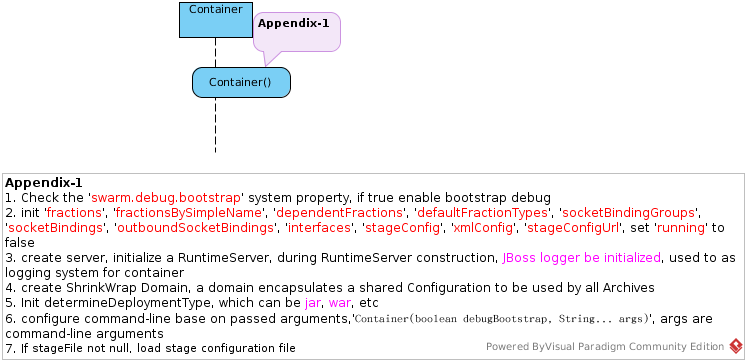
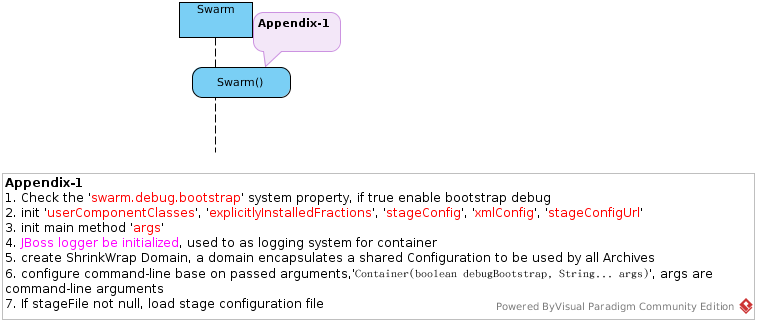
update swarm post

diff --git a/_posts/2016-07-14-wildfly-swarm.md b/_posts/2016-07-14-wildfly-swarm.md
@@ -443,15 +443,15 @@ In this section, a project with a simple Main class and no dependency, then we f
 A WildFly-Swarm container is the topest interface for Micro-Service WildFly Swarm, it use to start a simple JBoss MSC container, a tradition usag is
 
 ~~~
-Container container = new Container();    
-container.start();
+Swarm swarm = new Swarm();
+swarm.start(); 
 ~~~ 
 
 Fractions can be add to Container before container start, or Archives be deloyed after container start.
 
 A WildFly-Swarm container represented by `org.wildfly.swarm.container.Container`, it contains the following private fileds represents the `fractions`, `socketBindingGroups`, `socketBindings`, `server`, `deployer`, etc. 
 
-### Pre Container construction
+### Pre Container construction - bootstrap
 
 `java -jar X-swarm.jar` can start the lightweight container and fragment, how does this implemented? If look at the `META-INF/MANIFEST.MF` uder the unberjar,
 
@@ -491,6 +491,7 @@ public class BootModuleLoader extends ModuleLoader {
                 new BootstrapClasspathModuleFinder(),
                 new BootstrapModuleFinder(),
                 new ClasspathModuleFinder(),
+                new ContainerModuleFinder(),
                 new ApplicationModuleFinder(),
                 new FlattishApplicationModuleFinder(),
         });
@@ -502,11 +503,12 @@ As UML diagram:
 
 ![UML of ModuleFinder]({{ site.baseurl }}/assets/blog/wildfly/modules-ModuleFinder-uml.png)
 
-* BootstrapClasspathModuleFinder - Used only for loading dependencies of org.wildfly.bootstrap:main from its own jar.
-* BootstrapModuleFinder -
-* ClasspathModuleFinder -
-* ApplicationModuleFinder -
-* FlattishApplicationModuleFinder - 
+* BootstrapClasspathModuleFinder - Used only for loading dependencies of org.wildfly.bootstrap:main from its own jar. The classpath modules in bootstrap including: `javax.api`, `javax.sql.api`, `org.jboss.msc`, etc
+* BootstrapModuleFinder - Module-finder used only for loading the first set of jars when run in an fat-jar scenario.
+* ClasspathModuleFinder
+* BootstrapModuleFinder
+* ApplicationModuleFinder
+* FlattishApplicationModuleFinder
 
 ### Container construction
 
@@ -515,17 +517,40 @@ As UML diagram:
 As figure, Container construction mainly do the following:
 
 1. Check the 'swarm.debug.bootstrap' system property, if true enable bootstrap debug 
-2. init 'fractions', 'fractionsBySimpleName', 'dependentFractions', 'defaultFractionTypes', 'socketBindingGroups', 'socketBindings', 'outboundSocketBindings', 'interfaces', 'stageConfig', 'xmlConfig', 'stageConfigUrl', set 'running' to false 
-3. create server, initialize a RuntimeServer, during RuntimeServer construction, JBoss logger be initialized, used to as logging system for container 
-4. create ShrinkWrap Domain, a domain encapsulates a shared Configuration to be used by all Archives 
-5. Init determineDeploymentType, which can be jar, war, etc 
+2. init 'userComponentClasses', 'explicitlyInstalledFractions', 'stageConfig', 'xmlConfig', 'stageConfigUrl' 
+3. init main method 'args' 
+4. JBoss logger be initialized, used to as logging system for container 
+5. create ShrinkWrap Domain, a domain encapsulates a shared Configuration to be used by all Archives 
 6. configure command-line base on passed arguments,'Container(boolean debugBootstrap, String... args)', args are command-line arguments 
-7. If stageFile not null, load stage configuration file
+7. If stageFile not null, load stage configuration 
 
-Once Container be constructed, usually, it's start method be invoked, refer below section for more details.
+Once Swarm be constructed, usually, it's start method be invoked, refer below section for more details.
 
-### Container start
+### Swarm start
 
-Swarm RuntimeServer invoke SelfContainedContainer's start() method, then set up MSC container.
+The main procedure of Swarm start including:
 
-![SelfContainedContainer start]({{ site.baseurl }}/assets/blog/wildfly/swarm-container.png)
+1. Swarm `RuntimeServer` as a bean instance be registered in Weld SE Container, all extentions be inject via Weld SE Container
+2. untimeServer statr invoke SelfContainedContainer's start() method
+3. MSC container start and install services.
+
+![Swarm start]({{ site.baseurl }}/assets/blog/wildfly/swarm-container.png)
+
+#### bootstrapOperations initilization
+
+#### JBoss SelfContainedContainer start
+
+A sample code to start MSC and install services via bootstrapOptions
+
+~~~
+import org.jboss.as.server.SelfContainedContainer;
+import org.jboss.dmr.ModelNode;
+import org.jboss.msc.service.ServiceActivator;
+import org.jboss.msc.service.ServiceContainer;
+
+SelfContainedContainer container = new SelfContainedContainer();
+List<ModelNode> bootstrapOperations = new ArrayList<>();
+SimpleContentProvider contentProvider = new SimpleContentProvider();
+List<ServiceActivator> activators = new ArrayList<>();
+ServiceContainer serviceContainer = container.start(bootstrapOperations, contentProvider, activators);
+~~~
